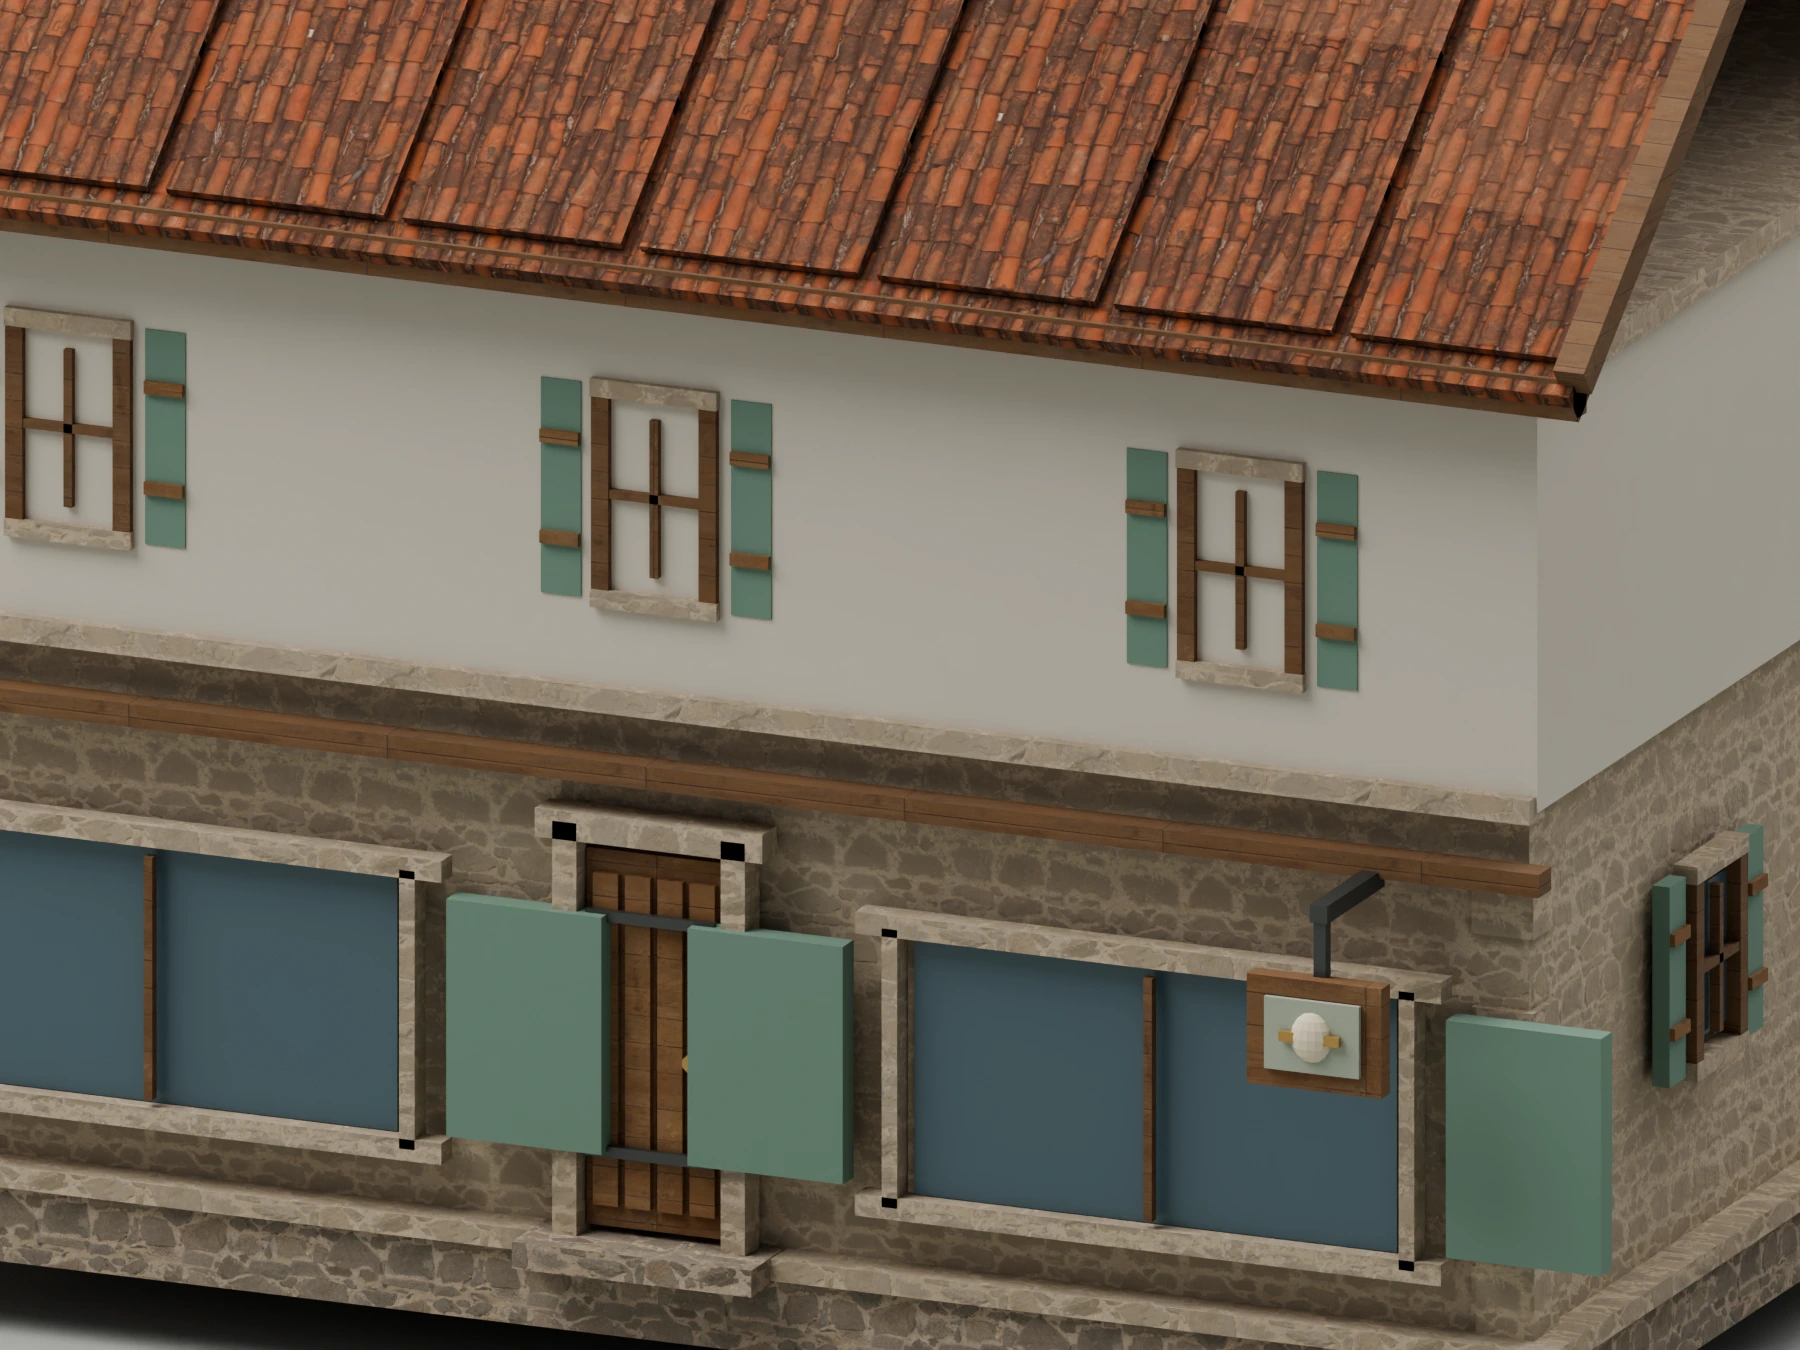
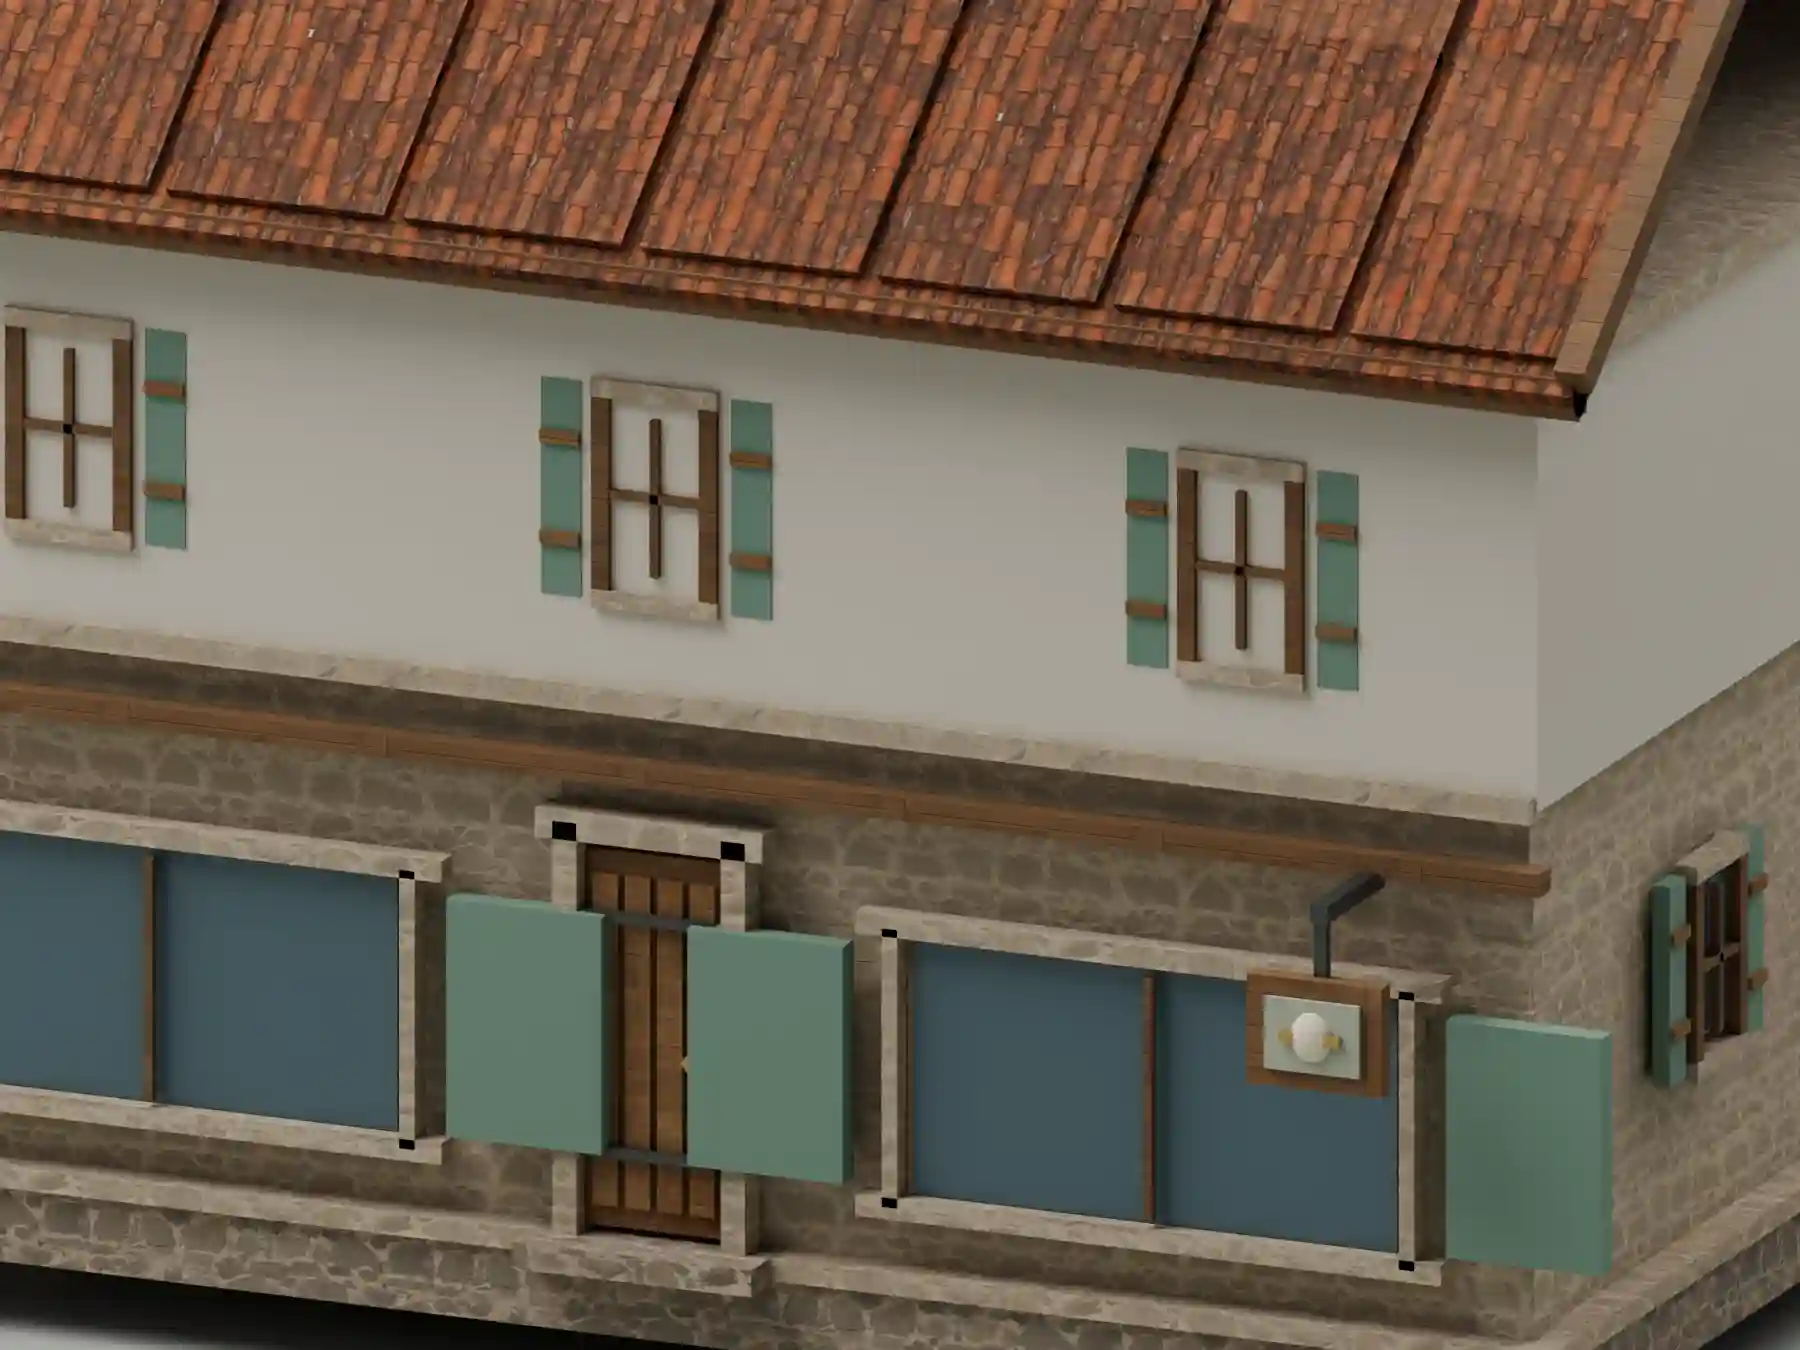
Refresh apothecary shopfront showcase

diff --git a/site/index.html b/site/index.html
@@ -328,11 +328,11 @@ footer{padding:18px 0 30px;border-top:1px solid var(--line);color:#87918c;font-s
   </a>
   <div class="caption"><div class="eyebrow">World</div><h3>Early-19th-century town buildings</h3><p>Fourteen reusable plaster, masonry, timber, and tiled-roof models used across 22 city placements</p><span class="credit">Big Sim original building models</span></div>
 </article><article class="card" data-category="World" data-detail="true">
-  <a class="image" href="images/gallery/apothecary-shopfront-detail.webp" aria-label="Open full size image: Apothecary shopfront">
-    <img src="images/gallery/apothecary-shopfront-detail.webp" alt="Apothecary shopfront — Divided shop windows, shutters, stone doorway, and projecting trade sign at street level" loading="lazy">
+  <a class="image" href="images/gallery/apothecary-shopfront-detail.webp?v=apothecary-20261023" aria-label="Open full size image: Apothecary shopfront">
+    <img src="images/gallery/apothecary-shopfront-detail.webp?v=apothecary-20261023" alt="Apothecary shopfront — Six-light display windows, framed shutters, a cut-stone doorway, and a projecting mortar-and-pestle sign" loading="lazy">
     <span class="number">40</span>
   </a>
-  <div class="caption"><div class="eyebrow">World</div><h3>Apothecary shopfront</h3><p>Divided shop windows, shutters, stone doorway, and projecting trade sign at street level</p><span class="credit">Big Sim original building detail</span></div>
+  <div class="caption"><div class="eyebrow">World</div><h3>Apothecary shopfront</h3><p>Six-light display windows, framed shutters, a cut-stone doorway, and a projecting mortar-and-pestle sign.</p><span class="credit">Big Sim original building detail</span></div>
 </article><article class="card" data-category="World" data-detail="true">
   <a class="image" href="images/gallery/inn-entry-detail.webp" aria-label="Open full size image: Inn entrance and sign">
     <img src="images/gallery/inn-entry-detail.webp" alt="Inn entrance and sign — Covered entry, masonry surround, and projecting inn sign at close range" loading="lazy">

diff --git a/site/world-battlefield.html b/site/world-battlefield.html
@@ -129,10 +129,10 @@ footer a{color:var(--gold)}
   </a>
   <div class="caption"><div class="eyebrow">World</div><h3>Early-19th-century town buildings</h3><p>Fourteen reusable plaster, masonry, timber, and tiled-roof models used across 22 city placements</p><span class="credit">Big Sim original building models</span></div>
 </article><article class="card">
-  <a class="image" href="images/gallery/apothecary-shopfront-detail.webp" aria-label="Open full size image: Apothecary shopfront">
-    <img src="images/gallery/apothecary-shopfront-detail.webp" alt="Apothecary shopfront — Divided shop windows, shutters, stone doorway, and projecting trade sign at street level" loading="lazy">
+  <a class="image" href="images/gallery/apothecary-shopfront-detail.webp?v=apothecary-20261023" aria-label="Open full size image: Apothecary shopfront">
+    <img src="images/gallery/apothecary-shopfront-detail.webp?v=apothecary-20261023" alt="Apothecary shopfront — Six-light display windows, framed shutters, a cut-stone doorway, and a projecting mortar-and-pestle sign" loading="lazy">
   </a>
-  <div class="caption"><div class="eyebrow">World</div><h3>Apothecary shopfront</h3><p>Divided shop windows, shutters, stone doorway, and projecting trade sign at street level</p><span class="credit">Big Sim original building detail</span></div>
+  <div class="caption"><div class="eyebrow">World</div><h3>Apothecary shopfront</h3><p>Six-light display windows, framed shutters, a cut-stone doorway, and a projecting mortar-and-pestle sign.</p><span class="credit">Big Sim original building detail</span></div>
 </article><article class="card">
   <a class="image" href="images/gallery/inn-entry-detail.webp" aria-label="Open full size image: Inn entrance and sign">
     <img src="images/gallery/inn-entry-detail.webp" alt="Inn entrance and sign — Covered entry, masonry surround, and projecting inn sign at close range" loading="lazy">
